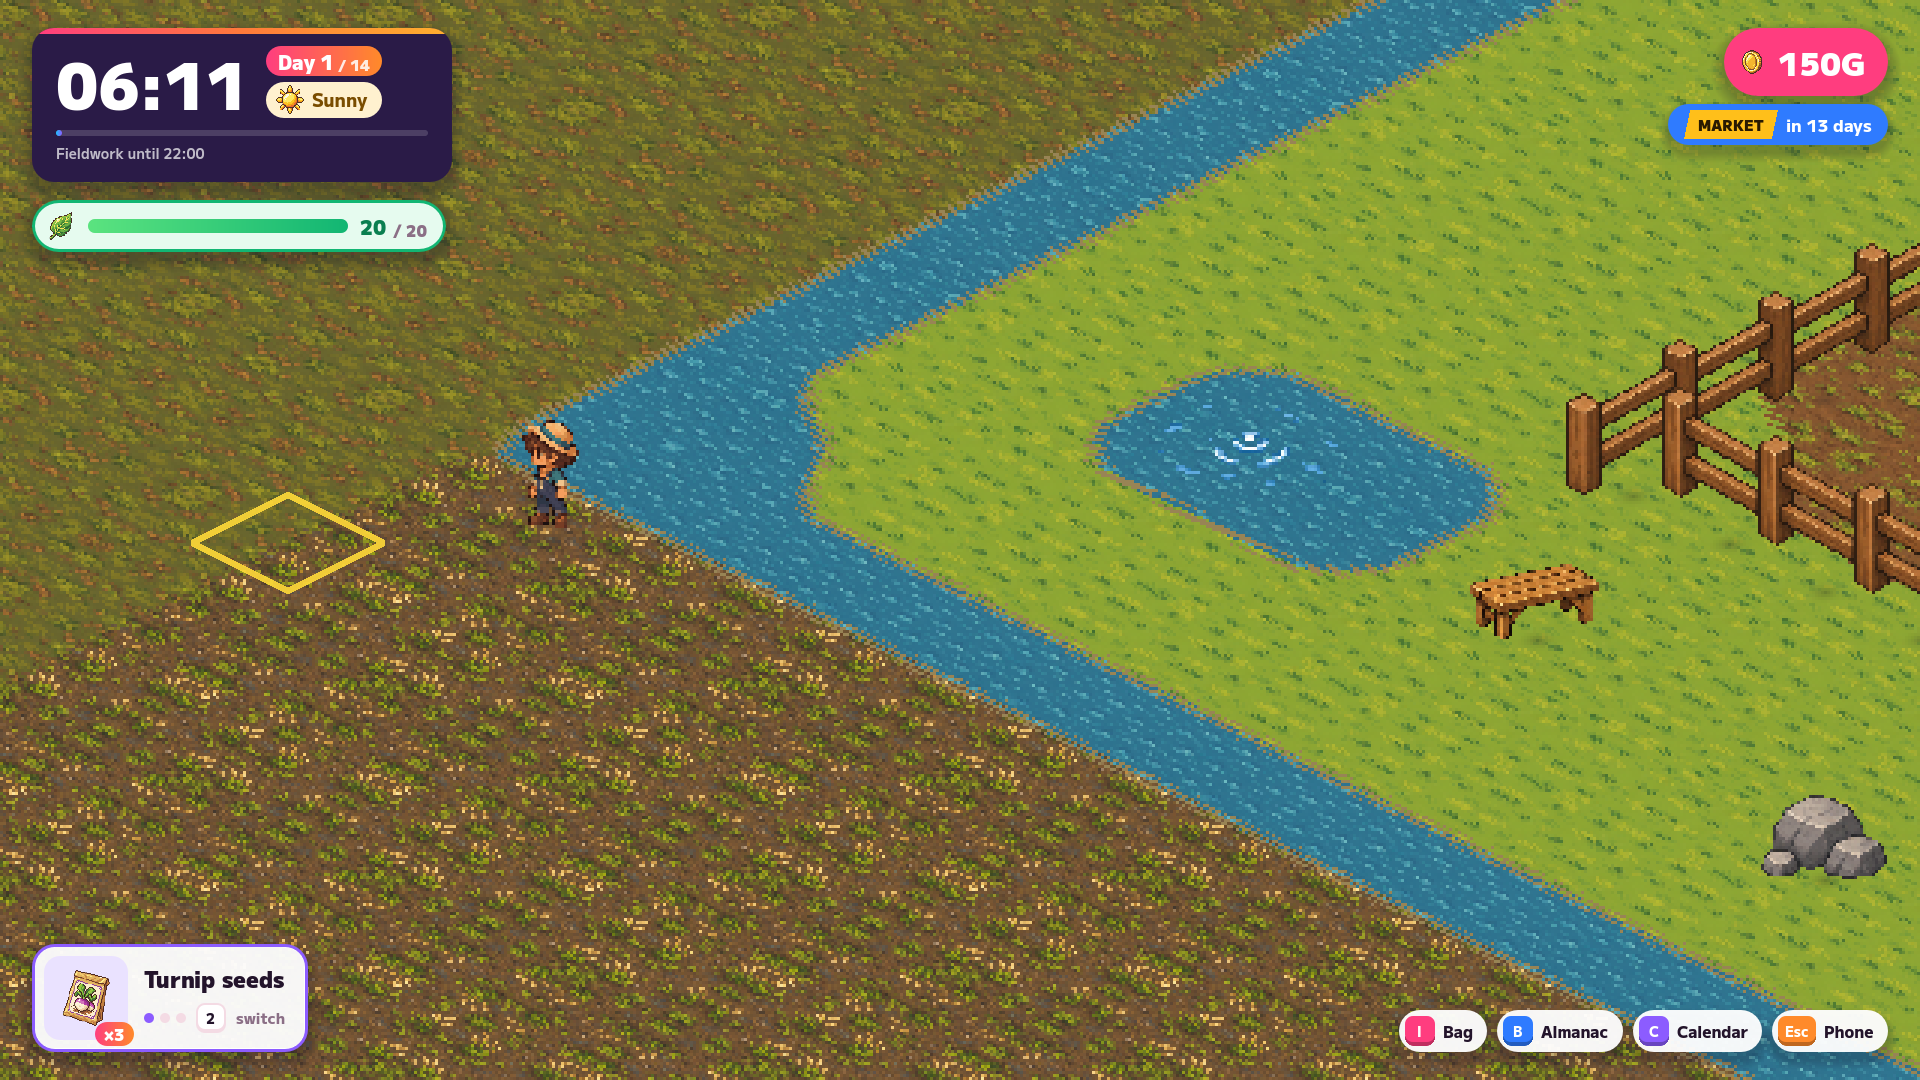
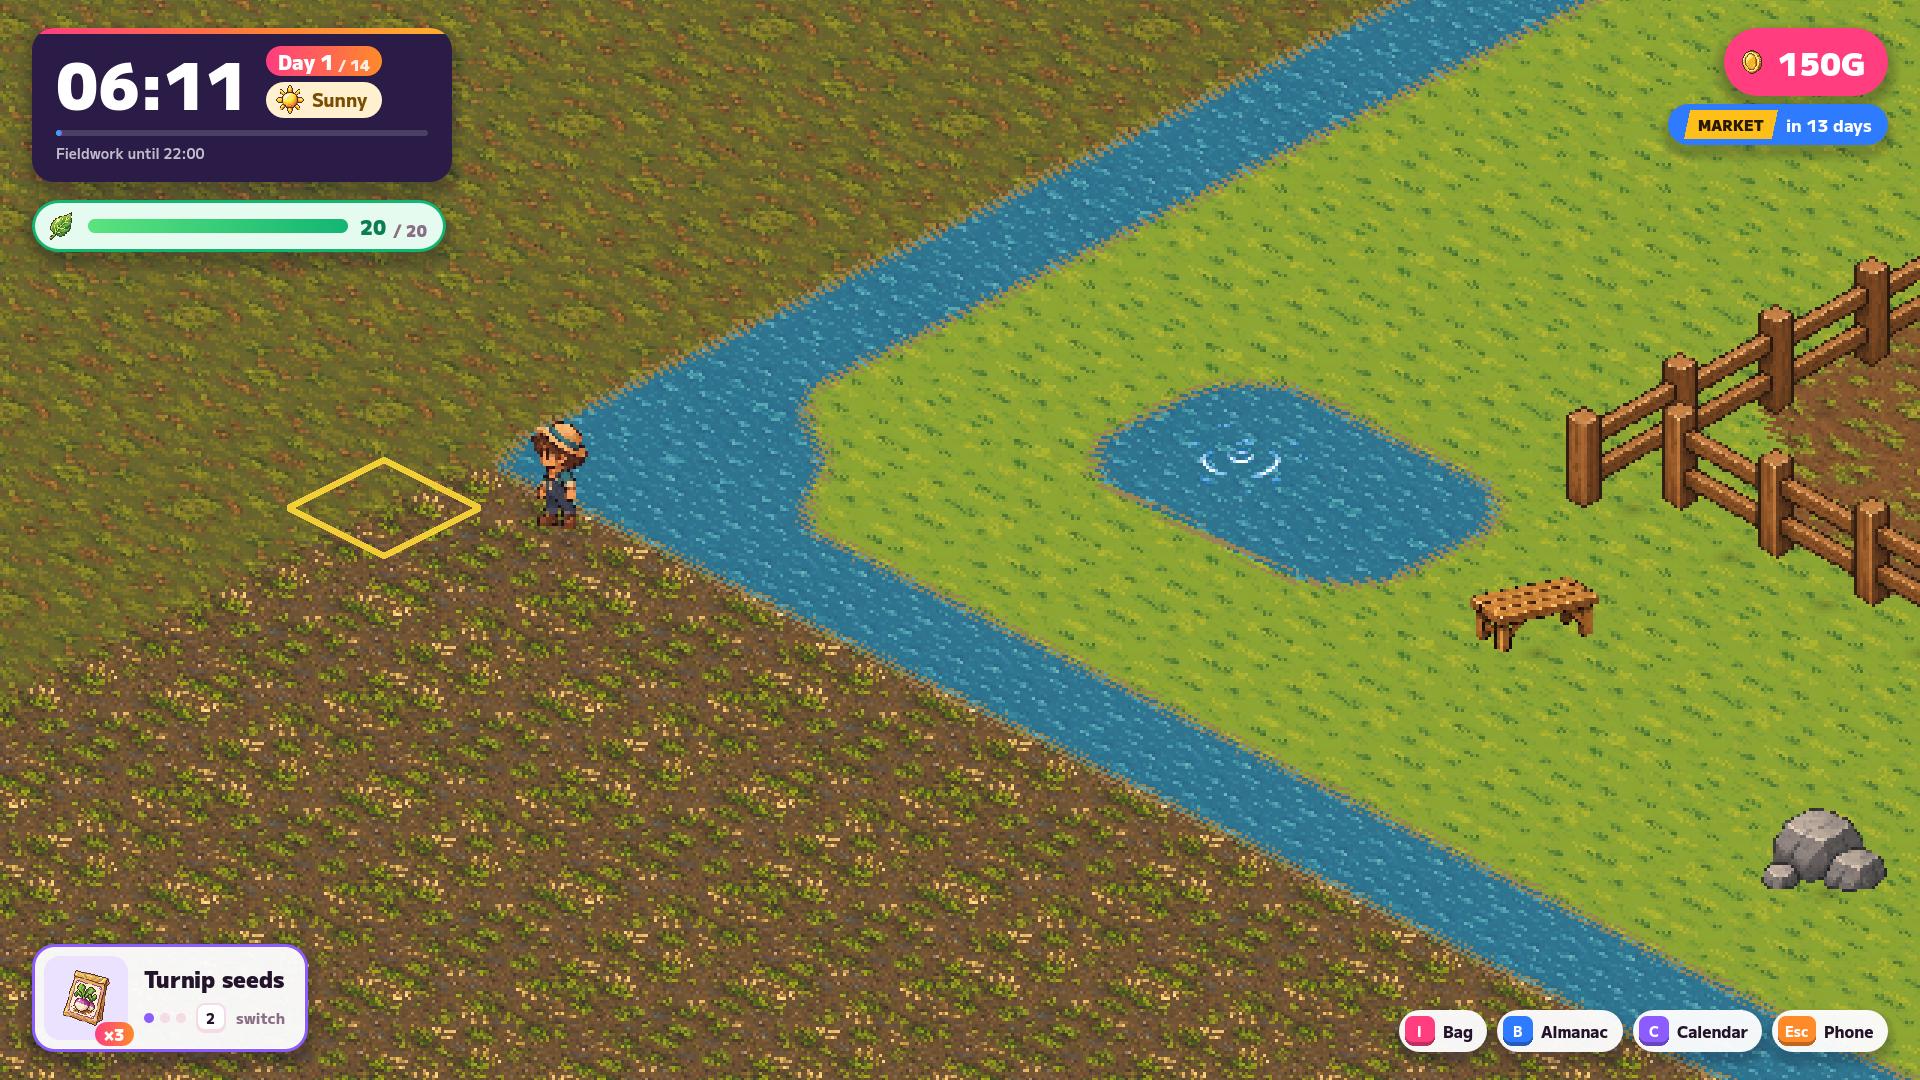
fix(HPA-863): harden acceptance evidence drivers
Keep MCP playtests off developer save/settings files, hold driver operations
under one busy lock, prove the shipping-bin collision target, deduplicate the
farm terrain contract, and capture reset top/bottom camera limits.

Generated with [Devin](https://devin.ai)

diff --git a/docs/superpowers/validation/2026-11-23-hpa-863-acceptance.md b/docs/superpowers/validation/2026-11-23-hpa-863-acceptance.md
@@ -3,8 +3,9 @@
 Date: 2026-11-23
 Branch: `plan/hpa-863-farm-map-v2-world-art`
 Status: **local changed-map/MCP/PCK acceptance complete for the runs recorded
-here; approved-image comparison, the full godot-e2e lane and final-SHA CI
-remain open. This is not overall release acceptance.**
+here, and the `b405be7` CI/export lanes are green; approved-image comparison
+remains open. Any post-`b405be7` review-fix SHA needs a fresh CI run. This is
+not overall release acceptance.**
 Operator: agent-operated, not human. No new art or SFX was generated.
 
 ## Commits covered
@@ -21,6 +22,8 @@ Operator: agent-operated, not human. No new art or SFX was generated.
 | `7da4c8d` | timing-robust failed-seek regression |
 | `a42165e` | bamboo grove dressing, gate crossings, separate native log |
 | `4250a26` | bamboo/gate/wet-dry evidence and house-anchor docs |
+| `5b289b6` | final pack/gate evidence pinned to `4250a26` |
+| `b405be7` | acceptance status wording |
 
 ## Test evidence (Godot 4.7.1, isolated `HOME`)
 
@@ -30,9 +33,9 @@ fresh temporary `HOME`. `./tools/verify-clean.sh` archives committed `HEAD`.
 
 | Check | Command | Result |
 | --- | --- | --- |
-| Clean verifier | `./tools/verify-clean.sh` | **exit 0**: import, GUT **635/635** (51,152 asserts; includes the 3 focused driver regressions), project smoke, world-math smoke, terrain-stamp drift (35 sources / 1,542 tiles / 1,920 cells), world-shell smoke (`48x40`, 47 props, 85 fences, 8 decor, 6 bamboo clumps, 3-plank PierDeck), audio |
+| Clean verifier | `./tools/verify-clean.sh` | **exit 0**: import, GUT **637/637** (51,166 asserts; includes the 5 focused driver regressions), project smoke, world-math smoke, terrain-stamp drift (35 sources / 1,542 tiles / 1,920 cells), world-shell smoke (`48x40`, 47 props, 85 fences, 8 decor, 6 bamboo clumps, 3-plank PierDeck), audio |
 | GdUnit4 | `GODOT_BIN=... xvfb-run -a ./addons/gdUnit4/runtest.sh -a tests/gdunit -c` | **16/16**, 0 errors/failures/orphans |
-| Driver regression | `godot ... -gtest=res://tests/integration/test_mcp_acceptance_driver.gd -gexit` | **3/3**, 33 asserts; failed seek returns false, releases input, keeps Error and no At_ marker; input-facing succeeds |
+| Driver regression | `godot ... -gtest=res://tests/integration/test_mcp_acceptance_driver.gd -gexit` | **5/5**, 47 asserts; isolated playtest save/settings paths, busy held through the interact marker, failed seek returns false, releases input, keeps Error and no At_ marker; input-facing succeeds |
 | godot-e2e, individual suites | same harness with `-a tests/e2e/world_readability_test.gd` and `-a tests/e2e/gameplay_day_one_test.gd` | `world_readability` **1/1 pass** (29.1 s); `gameplay_day_one` **7/7 pass** (2 min 42 s) |
 | godot-e2e, full lane | `... -a tests/e2e -c` (three runs) | **exit 100 all three times**; 13 cases. Runs 1–2: 3 errors / 85 failures; run 3 (lower host load): 1 error / 21 failures. The failing set varies inside `gameplay_day_one_test` (`held_row`, `player_moves`, `travel_overlay`, `observe`); `app_launch` 3/3, `market_confirm` 1/1, `ui_navigation` 1/1 and `world_readability` 1/1 passed in every run. Every failure begins with `Command 'wait_seconds' timed out after 1300–1600 ms` followed by `E2E session is not open`; no map/decor assertion failed. Each affected suite passes alone. The suspected cause is host CPU/llvmpipe frame latency under unrelated load, but that is **not proven**: no profiler or frame-time trace was captured, and the failing subset changes between runs. |
 
@@ -109,10 +112,14 @@ Exact method:
    `docs/superpowers/validation/hpa-863-mcp-captures/run-d-native-actions.jsonl`.
 
 The driver is test-only and in `tests/native_tour/` (excluded from export). It
-does not teleport or touch the session: each walk uses AStar waypoints, real
-Input move actions and live collision; each `Action`/`Interact` sends the real
-`use_action`/`interact` action, and a successful interact goto establishes the
-final facing through one directional Input action.
+configures the app with dedicated ignored playtest files
+(`test_output/mcp_acceptance/playtest-save.json` and
+`playtest-settings.cfg`), so confirming sleep or changing settings cannot replace
+the developer's real save or preferences. It does not teleport or touch the
+session: each walk uses AStar waypoints, real Input move actions and live
+collision; each `Action`/`Interact` sends the real `use_action`/`interact`
+action, and a successful interact goto establishes the final facing through one
+directional Input action.
 
 Capture provenance by run:
 
@@ -170,8 +177,9 @@ Committed at `docs/superpowers/validation/hpa-863-mcp-captures/`:
 
 The earlier native-tour note (`2026-11-23-hpa-863-native-tour.md`) now covers
 the seeded wet/dry field view (`hpa863-04b`), both bamboo grove approaches
-(`hpa863-15/16`) and the unchanged crop/town/pier/Y-sort checks. None of the
-MCP captures is a screenshot-golden test.
+(`hpa863-15/16`), explicit top/bottom camera-limit captures (`hpa863-14/17`)
+and the unchanged crop/town/pier/Y-sort checks. None of the MCP captures is a
+screenshot-golden test.
 
 ## Export PCK gate
 
@@ -204,6 +212,14 @@ imported `farm-source.png`/`town-art-cutouts.png`/`town-truck-views.png`, and
 recursive `packed entry beneath provenance:` lines for every packed source and
 `.import` sidecar. This proves the positive gate is not vacuous.
 
+Post-ledger CI check on `b405be7`: [CI run
+45438164076](https://github.com/cwchanap/phoenix/actions/runs/45438164076)
+exported the unmodified checkout — no temporary S3TC/BPTC import override —
+and its `Verify exported PCK` step passed with
+`export_pack_smoke: 6 scenes and 19 textures load from the pack`. The local
+override recorded above was therefore host-specific evidence only, not a
+release-export requirement.
+
 ## Cleanup
 
 Removed after a live-reference search (historical notes under
@@ -229,12 +245,14 @@ promoted runtime art. Both provenance folders are export-excluded.
 
 ## Open blockers
 
-- **CI has not run** on the final SHA; the coordinator owns the push and PR
-  checks. No CI/`unit-tests`/`e2e-tests` lane is claimed green here.
+- **Post-`b405be7` review-fix SHAs need fresh CI.** `b405be7` itself passed
+  CI, GdUnit4 and godot-e2e on GitHub Actions.
 - **Approved-image comparison unavailable** (Linear OAuth pending, no Linear
   MCP tool in this session). Geometry matches `approved-layout.json`; the
   visual comparison to the blockouts/`world-mockup-vs-game.jpg` is still open.
-- **Full godot-e2e lane is red locally** (combined suite only) with the
-  timing/`wait_seconds` pattern above; each affected suite passes alone. Host
-  load/llvmpipe latency is the suspected cause, not a proven one.
+- **Full godot-e2e lane was red locally** (combined suite only) with the
+  timing/`wait_seconds` pattern above; each affected suite passes alone. CI run
+  [45438163880](https://github.com/cwchanap/phoenix/actions/runs/45438163880)
+  later passed all 13 cases on `b405be7`, so the remaining question is local
+  host latency, not a proven product regression.
 - The MCP bridge runs 4.7.2 Mono; all CLI gates above use pinned 4.7.1.

diff --git a/docs/superpowers/validation/2026-11-23-hpa-863-native-tour.md b/docs/superpowers/validation/2026-11-23-hpa-863-native-tour.md
@@ -16,12 +16,12 @@ capture's dimensions before writing it.
   3-kind x stages 2-4 crop grid; the three first-column planted cells are `watered_today` so the
   field carries both wet frame 1 and dry frame 0 soil) and a windowed/English settings fixture
   with tutorial cards disabled.
-- The farm poses teleport the live player; walking is transport only, not a reachability proof.
-  Interaction/reachability stays pinned by the headless, GUT and godot-e2e suites, and the
-  separate MCP Run D log records real-input fence-gate crossings.
-- This set supersedes the Task 4 set: it adds the wet/dry field view and the two dressed bamboo
-  groves. The earlier shadow/pier corrections remain (building contact shadows at their ground
-  root; pier planks in the below-actor `PierDeck`).
+- The farm poses teleport the live player and reset camera smoothing before settling; walking is
+  transport only, not a reachability proof. Interaction/reachability stays pinned by the headless,
+  GUT and godot-e2e suites, and the separate MCP Run D log records real-input fence-gate crossings.
+- This set supersedes the Task 4 set: it adds the wet/dry field view, the two dressed bamboo
+  groves and explicit top/bottom camera-limit captures. The earlier shadow/pier corrections remain
+  (building contact shadows at their ground root; pier planks in the below-actor `PierDeck`).
 - One real E at the reachable farm-truck west-face contact (`32.78,12.72` facing RIGHT) drives to
   town through the real travel overlay and map swap; the town captures are the arrived map.
 - The house root is the derived footprint anchor `(1248,560)`; its art base/doorway aligns with
@@ -35,7 +35,7 @@ capture's dimensions before writing it.
     godot --path . --script res://tests/native_tour/hpa_863_tour.gd
   ```
 
-  Result: exit 0, `TOUR|DONE clean tour=hpa-863`, 16 captures.
+  Result: exit 0, `TOUR|DONE clean tour=hpa-863`, 18 captures.
 
 ## Captures
 
@@ -57,8 +57,10 @@ Committed at `docs/superpowers/validation/hpa-863-tour-captures/`.
 | `hpa863-11-town-centre.png` | town centre | continuous paving, props, villagers, truck |
 | `hpa863-12-town-camera-northeast.png` | town NE edge | paved/grass edge, no tile rim or void |
 | `hpa863-13-town-camera-southwest.png` | town SW edge | paved/grass edge, no tile rim or void |
+| `hpa863-14-farm-camera-top.png` | farm camera top limit | continuous forest/river/lot backdrop to the top edge, no grey void |
 | `hpa863-15-farm-bamboo-west.png` | west grove approach `(4.5,7.5)`, facing UP | three bamboo clumps dress the approved `(3,4,3,3)` blocking footprint; no invisible blockage |
 | `hpa863-16-farm-bamboo-east.png` | east grove approach `(10.5,7.5)`, facing UP | three bamboo clumps dress the approved `(9,4,3,3)` blocking footprint; no invisible blockage |
+| `hpa863-17-farm-camera-bottom.png` | farm camera bottom limit | continuous grass/road/paddy backdrop to the bottom edge, no grey void |
 
 ## Not performed
 
